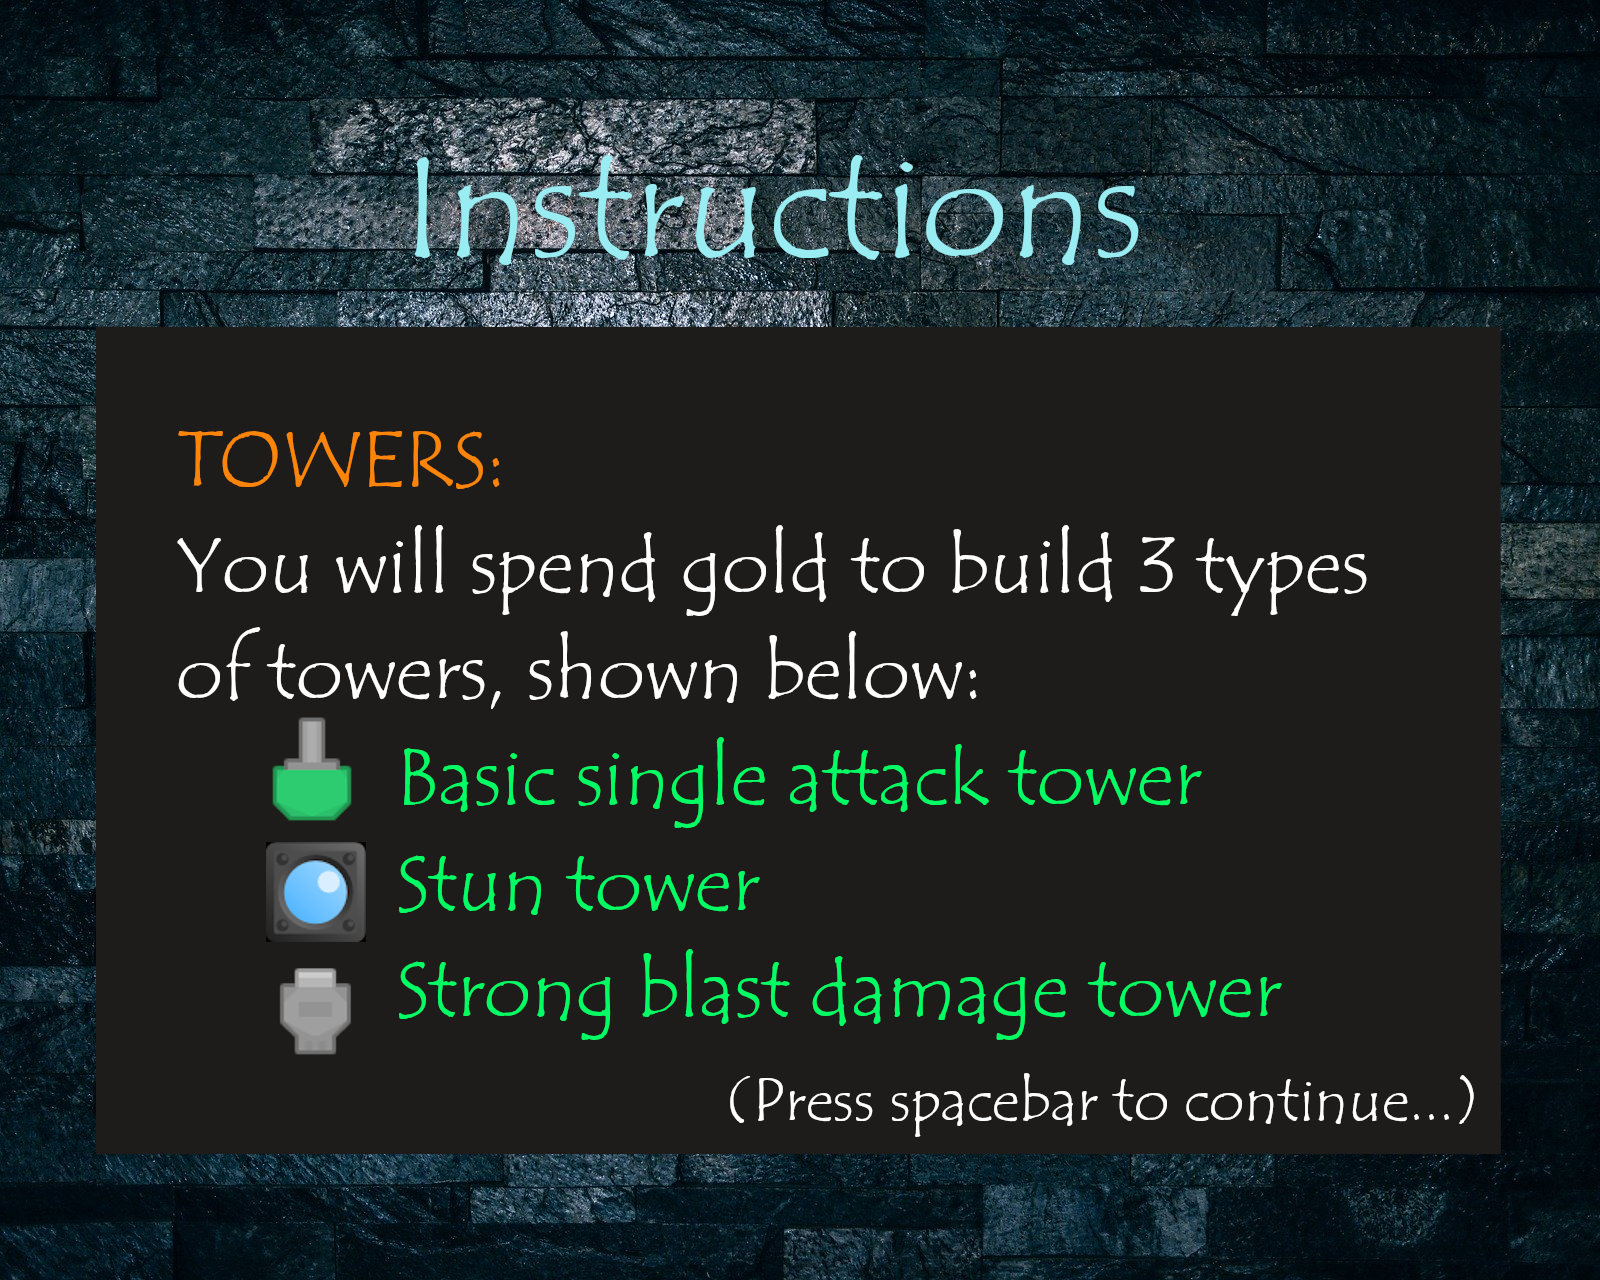
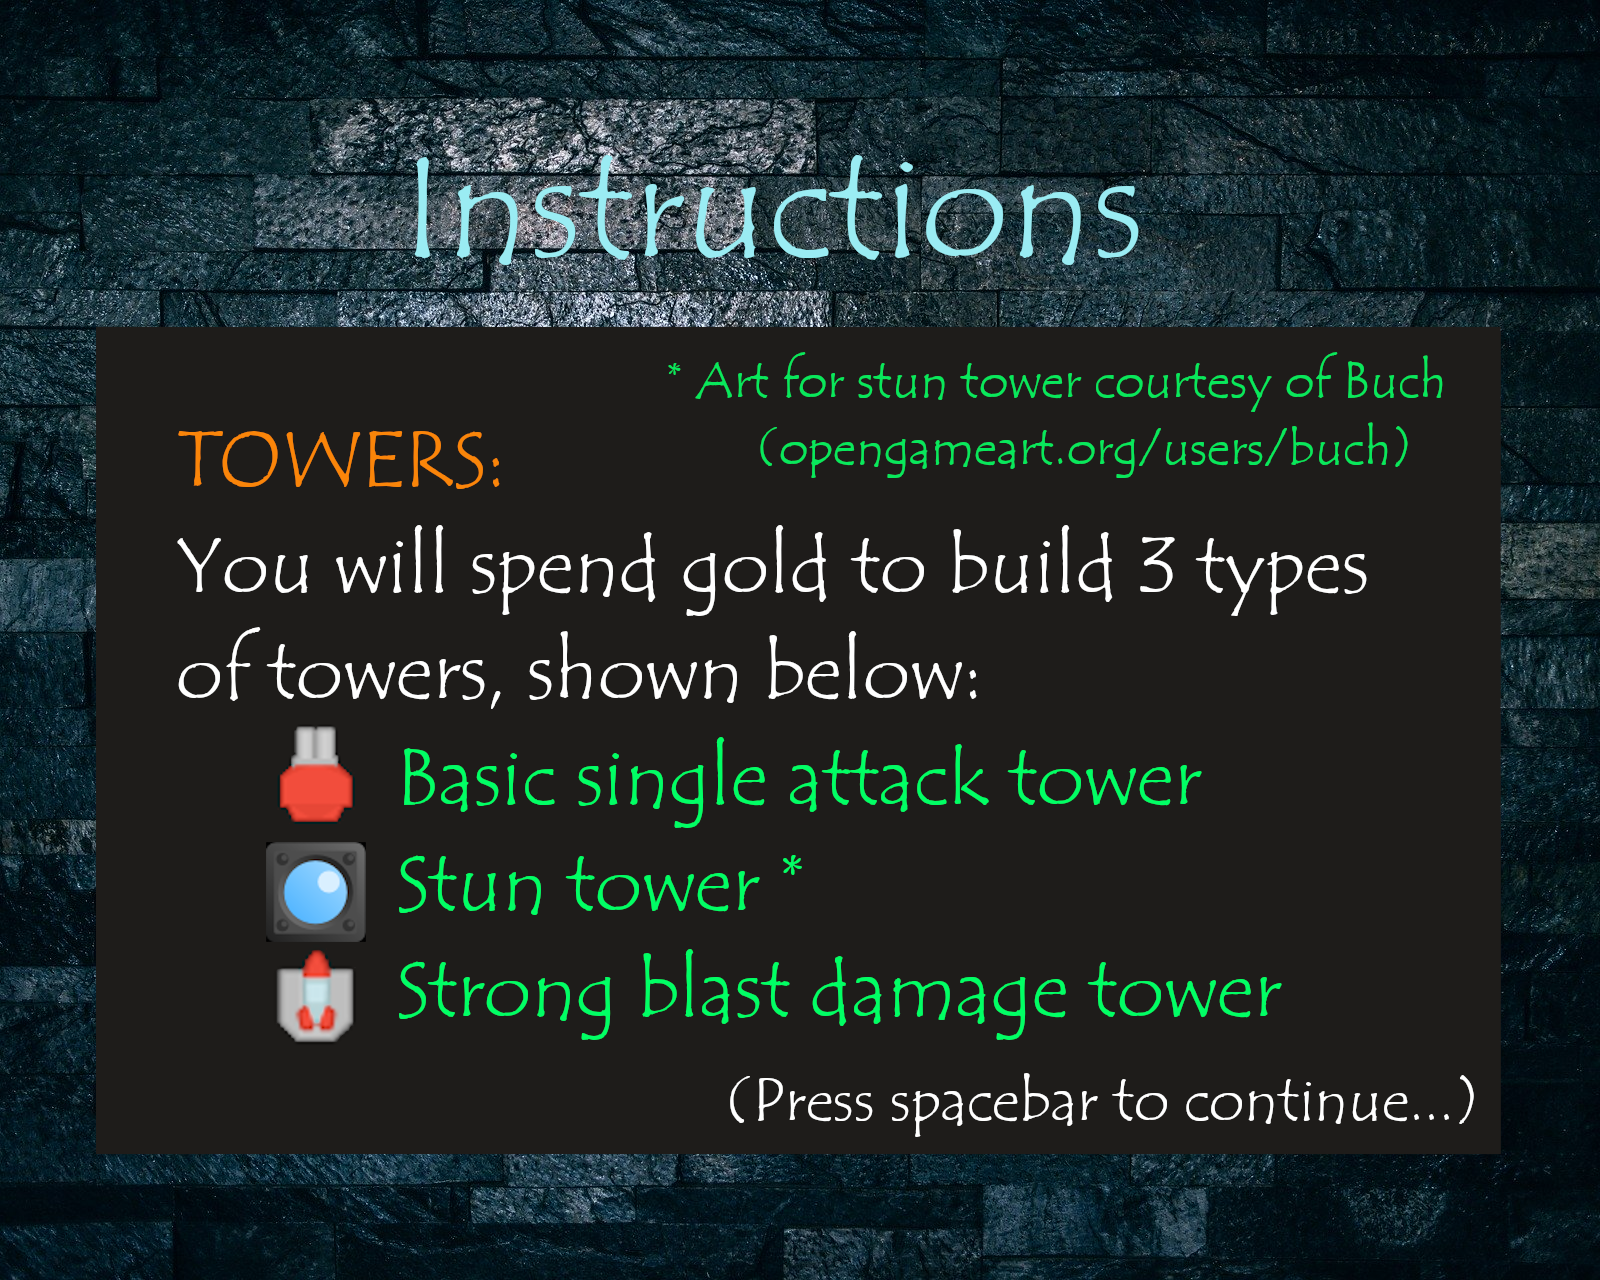
Fixed pause functionality; added variable enemy speeds; updated instruction page

diff --git a/js/entities/pause_buttons.js b/js/entities/pause_buttons.js
@@ -24,13 +24,22 @@ game.PauseButton = me.GUI_Object.extend({
     onClick: function (event)
     {
 		this.setOpacity(0.5);
-        this.menuButtons.push(new game.ResumeButton(TILE_WIDTH * 4, TILE_HEIGHT, {}, this));
-        this.menuButtons.push(new game.RestartButton(TILE_WIDTH * 4, TILE_HEIGHT * 3, {}, this));
-        this.menuButtons.push(new game.QuitButton(TILE_WIDTH * 4, TILE_HEIGHT * 5, {}, this));
-        me.game.world.addChild(this.menuButtons[0]);
-        me.game.world.addChild(this.menuButtons[1]);
-        me.game.world.addChild(this.menuButtons[2]);
-        me.state.pause();
+		if (!game.data.isPaused) {
+			this.menuButtons.push(new game.ResumeButton(TILE_WIDTH * 4, TILE_HEIGHT, {}, this));
+			this.menuButtons.push(new game.RestartButton(TILE_WIDTH * 8.5, TILE_HEIGHT, {}, this));
+			this.menuButtons.push(new game.QuitButton(TILE_WIDTH * 13, TILE_HEIGHT, {}, this));
+			me.game.world.addChild(this.menuButtons[0]);
+			me.game.world.addChild(this.menuButtons[1]);
+			me.game.world.addChild(this.menuButtons[2]);
+			game.data.isPaused = true;
+		}
+		else {
+			game.data.isPaused = false;
+			me.game.world.removeChild(this.menuButtons[2]);
+			me.game.world.removeChild(this.menuButtons[1]);
+			me.game.world.removeChild(this.menuButtons[0]);
+			this.menuButtons = [];
+		}
         return false;
     }
 });
@@ -41,16 +50,26 @@ game.ResumeButton = me.GUI_Object.extend({
         settings.width = TILE_WIDTH * 4;
         settings.height = TILE_HEIGHT * 2;
         this._super(me.GUI_Object, 'init', [x, y , settings]);
+		this.setOpacity(0.9);
 		this.pause = pause;
 		this.menu = pause.menuButtons;
     },
+	onOver: function (event) {
+		this.setOpacity(1.0);
+		return false;
+	},
+
+	onOut: function (event) {
+		this.setOpacity(0.9);
+        return false;
+	},
 	onClick: function (event)
 	{
 		this.pause.menuButtons = [];
 		me.game.world.removeChild(this.menu[0]);
 		me.game.world.removeChild(this.menu[1]);
 		me.game.world.removeChild(this.menu[2]);
-		me.state.resume();
+		game.data.isPaused = false;
 		return false;
 	}
 });
@@ -61,13 +80,23 @@ game.RestartButton = me.GUI_Object.extend({
         settings.width = TILE_WIDTH * 4;
         settings.height = TILE_HEIGHT * 2;
         this._super(me.GUI_Object, 'init', [x, y , settings]);
+		this.setOpacity(0.9);
 		this.pause = pause;
 		this.menu = pause.menuButtons;
     },
+	onOver: function (event) {
+		this.setOpacity(1.0);
+		return false;
+	},
+
+	onOut: function (event) {
+		this.setOpacity(0.9);
+        return false;
+	},
 	onClick: function (event)
 	{
 		// Code to return to level introduction screen
-		me.state.resume();
+		game.data.isPaused = false;
 		this.pause.menuButtons = [];
 		me.state.change(RESTART);
 		return false;
@@ -80,12 +109,26 @@ game.QuitButton = me.GUI_Object.extend({
         settings.width = TILE_WIDTH * 4;
         settings.height = TILE_HEIGHT * 2;
         this._super(me.GUI_Object, 'init', [x, y , settings]);
-		this.pause = pause
+		this.setOpacity(0.9);
+		this.pause = pause;
     },
+	onOver: function (event) {
+		this.setOpacity(1.0);
+		return false;
+	},
+
+	onOut: function (event) {
+		this.setOpacity(0.9);
+        return false;
+	},
 	onClick: function (event)
 	{
-		me.state.resume();
+		game.data.isPaused = false;
 		this.pause.menuButtons = [];
+		game.data.life = START_LIFE;
+		game.data.wave = 0;
+		game.data.gold = START_GOLD;
+		game.data.level = 0;
 		me.state.change(me.state.MENU);
 		return false;
 	}

diff --git a/js/entities/tower_node.js b/js/entities/tower_node.js
@@ -25,40 +25,41 @@ game.TowerNode = me.GUI_Object.extend(
     // Change to selected tower object if a tower hasn't already been placed.
     onClick: function (event)
     {
-        // Check if any other tower nodes are already selected.
-        var towerNodes = me.game.world.getChildByName("TowerNode");
-        for (var i = 0; i < towerNodes.length; i++)
-            if (towerNodes[i].selected)
-            {
-                towerNodes[i].selected = false;
-                // Remove the selected tower node, if the node doesn't have a tower.
-                if (game.data.sellTower == false)
+		if (!game.data.isPaused) {
+            // Check if any other tower nodes are already selected.
+            var towerNodes = me.game.world.getChildByName("TowerNode");
+            for (var i = 0; i < towerNodes.length; i++)
+                if (towerNodes[i].selected)
                 {
-                    me.game.world.removeChild(towerNodes[i].currentTower);
-                    towerNodes[i].currentTower = towerNodes[i];
+                    towerNodes[i].selected = false;
+                    // Remove the selected tower node, if the node doesn't have a tower.
+                    if (game.data.sellTower == false)
+                    {
+                        me.game.world.removeChild(towerNodes[i].currentTower);
+                        towerNodes[i].currentTower = towerNodes[i];
+                    }
+                }
+
+            // If this node is locked, select to sell tower.
+            if (this.locked == true)
+            {
+                this.selected = true;
+                game.data.sellTower = true;
+            }
+
+            // The node is not locked so select it if there is enough gold to purchase a tower.
+            else 
+            {
+                game.data.sellTower = false;
+                if (game.data.gold >= TOWER_COST_RANGE)
+                {
+                    // Select the existing tower.
+                    this.selected = true;
+                    this.currentTower = me.game.world.addChild(
+                        new game.TowerSelectedNode(this.x, this.y, this.parentTower));
                 }
             }
-
-        // If this node is locked, select to sell tower.
-        if (this.locked == true)
-        {
-            this.selected = true;
-            game.data.sellTower = true;
         }
-
-        // The node is not locked so select it if there is enough gold to purchase a tower.
-        else 
-        {
-            game.data.sellTower = false;
-            if (game.data.gold >= TOWER_COST_RANGE)
-            {
-                // Select the existing tower.
-                this.selected = true;
-                this.currentTower = me.game.world.addChild(
-                    new game.TowerSelectedNode(this.x, this.y, this.parentTower));
-            }
-        }
-
         // don't propagate the event
         return false;
     }
@@ -90,7 +91,7 @@ game.TowerSelectedNode = me.GUI_Object.extend(
     // Change back to tower node object if a tower hasn't already been placed.
     onClick: function (event)
     {
-        if (this.locked == false) 
+        if (this.locked == false && !game.data.isPaused) 
         {
             this.parentTower.selected = false;
             me.game.world.removeChild(this);

diff --git a/js/entities/skeleton.js b/js/entities/skeleton.js
@@ -16,7 +16,7 @@
  ********************************************************************/
 game.Skeleton = me.Entity.extend(
 {
-    init: function (x, y, skeletonImage, speed, health, reward) { 
+    init: function (x, y, skeletonImage, speed, speedRange, health, reward) { 
         // Set the image to the appropriate skeleton
         settings = {};
         settings.image = skeletonImage;
@@ -41,9 +41,10 @@ game.Skeleton = me.Entity.extend(
         this.renderable.setCurrentAnimation("walkRight");
 
         // Set up initial attributes of this enemy
-        this.speed = speed;
-        this.normalSpeed = speed;
-        this.stunnedSpeed = speed / 2;
+		var speedModifier = Math.floor(Math.random() * speedRange);
+        this.speed = speed + speedModifier;
+        this.normalSpeed = this.speed;
+        this.stunnedSpeed = this.speed / 2;
         this.health = health;
         this.reward = reward;
         this.orientation = "RIGHT";
@@ -51,9 +52,12 @@ game.Skeleton = me.Entity.extend(
         this.alive = true;
         this.stunned = false;
         this.stunTimer = 0;
-    },
+   },
 
     update : function (dt) {
+		if (game.data.isPaused) {
+			return true;
+		}
         // Update the animation appropriately
         this._super(me.Entity, "update", [dt]);
 

diff --git a/js/entities/explode_tower.js b/js/entities/explode_tower.js
@@ -46,6 +46,9 @@ game.ExplodeTower = me.Entity.extend(
     },
 	
 	update : function (dt) {
+		if (game.data.isPaused) {
+			return true;
+		}
 		// Update the animation appropriately
         this._super(me.Entity, "update", [dt]);
 
@@ -152,8 +155,9 @@ game.PositionMarker = me.Entity.extend(
 
     update : function (dt) {
 		// Update the animation appropriately
-        this._super(me.Entity, "update", [dt]);
-		
+		if (!game.data.isPaused) {
+            this._super(me.Entity, "update", [dt]);
+		}
 		return true;
     },
 
@@ -202,6 +206,9 @@ game.Bomb = me.Entity.extend({
     },
 
     update : function (dt) {
+		if (game.data.isPaused) {
+			return true;
+		}
         // Update the animation appropriately
         this._super(me.Entity, "update", [dt]);
 		
@@ -337,6 +344,9 @@ game.ExplosionEffect = me.Entity.extend(
     },
 
     update : function (dt) {
+		if (game.data.isPaused) {
+			return true;
+		}
 		// Update the animation appropriately
         this._super(me.Entity, "update", [dt]);
 		

diff --git a/js/entities/range_tower.js b/js/entities/range_tower.js
@@ -45,6 +45,9 @@ game.RangeTower = me.Entity.extend(
     },
 	
 	update : function (dt) {
+		if (game.data.isPaused) {
+			return true;
+		}
 		// Update the animation appropriately
         this._super(me.Entity, "update", [dt]);
 
@@ -199,6 +202,9 @@ game.Missile = me.Entity.extend({
     },
 
     update : function (dt) {
+		if (game.data.isPaused) {
+			return false;
+		}
         // Update the animation appropriately
         this._super(me.Entity, "update", [dt]);
 		
@@ -324,6 +330,9 @@ game.GroundDecal = me.Entity.extend(
     },
 
     update : function (dt) {
+		if (game.data.isPaused) {
+			return true;
+		}
 		// Update the animation appropriately
         this._super(me.Entity, "update", [dt]);
 		

diff --git a/js/entities/clothed_skeleton.js b/js/entities/clothed_skeleton.js
@@ -11,11 +11,12 @@ game.ClothedSkeleton = game.Skeleton.extend(
     init: function (x, y)
     { 
         // Set the attributes for calling the constructor
-        var speed = 200;
+        var speed = 175;
         var health = 4;
+		var speedRange = 50;
         var reward = ENEMY_GOLD_CLOTHED;
 
         // Call the parent constructor
-        this._super(game.Skeleton, 'init', [x, y, "clothed_skeleton", speed, health, reward]);
+        this._super(game.Skeleton, 'init', [x, y, "clothed_skeleton", speed, speedRange, health, reward]);
     }
 });

diff --git a/js/entities/robed_skeleton.js b/js/entities/robed_skeleton.js
@@ -11,11 +11,12 @@ game.RobedSkeleton = game.Skeleton.extend(
     init: function (x, y)
     { 
         // Set the attributes for calling the constructor
-        var speed = 150;
+        var speed = 125;
+		var speedRange = 50;
         var health = 8;
         var reward = ENEMY_GOLD_ROBED;
 
         // Call the parent constructor
-        this._super(game.Skeleton, 'init', [x, y, "robed_skeleton", speed, health, reward]);
+        this._super(game.Skeleton, 'init', [x, y, "robed_skeleton", speed, speedRange, health, reward]);
     }
 });

diff --git a/js/entities/armored_skeleton.js b/js/entities/armored_skeleton.js
@@ -12,10 +12,11 @@ game.ArmoredSkeleton = game.Skeleton.extend(
     { 
         // Set the attributes for calling the constructor
         var speed = 100;
+		var speedRange = 25;
         var health = 12;
         var reward = ENEMY_GOLD_ARMORED;
 
         // Call the parent constructor
-        this._super(game.Skeleton, 'init', [x, y, "armored_skeleton", speed, health, reward]);
+        this._super(game.Skeleton, 'init', [x, y, "armored_skeleton", speed, speedRange, health, reward]);
     }
 });

diff --git a/js/entities/tower_menu.js b/js/entities/tower_menu.js
@@ -35,12 +35,12 @@ game.TowerMenuItem = me.GUI_Object.extend(
     onClick: function (event)
     {
         // single click:
-        if (this.confirm == false) {
+        if (this.confirm == false && !game.data.isPaused) {
             this.confirm = true;
 
         // double click:
         }
-        else
+        else if (!game.data.isPaused)
         {
             // Find the selected tower node
             var towerNodes = me.game.world.getChildByName("TowerNode");

diff --git a/js/entities/stun_tower.js b/js/entities/stun_tower.js
@@ -33,6 +33,9 @@ game.StunTower = me.Entity.extend(
     },
 	
 	update : function (dt) {
+		if (game.data.isPaused) {
+			return true;
+		}
 		// Update the animation appropriately
         this._super(me.Entity, "update", [dt]);
 
@@ -166,6 +169,9 @@ game.StunEffect = me.Entity.extend(
     },
 
     update : function (dt) {
+		if (game.data.isPaused) {
+			return true;
+		}
 		// Update the animation appropriately
         this._super(me.Entity, "update", [dt]);
 		

diff --git a/js/entities/wave_manager.js b/js/entities/wave_manager.js
@@ -38,6 +38,9 @@ game.WaveManager = me.Entity.extend({
     },
 	
     update : function (dt) {
+		if (game.data.isPaused) {
+			return true;
+		}
         // Update the wave manager until all enemies have been added to the level
 		if (!this.waitingForNextLevel) {
 			// Update timer

diff --git a/js/game.js b/js/game.js
@@ -23,6 +23,8 @@ var game = {
         lastStartingLife: START_LIFE,
         // Player gold balance
         lastStartingGold: START_GOLD,
+		// Pause tracker
+		isPaused: false,
         // Enemy arrays
         enemies: [],
         dyingEnemies: []
